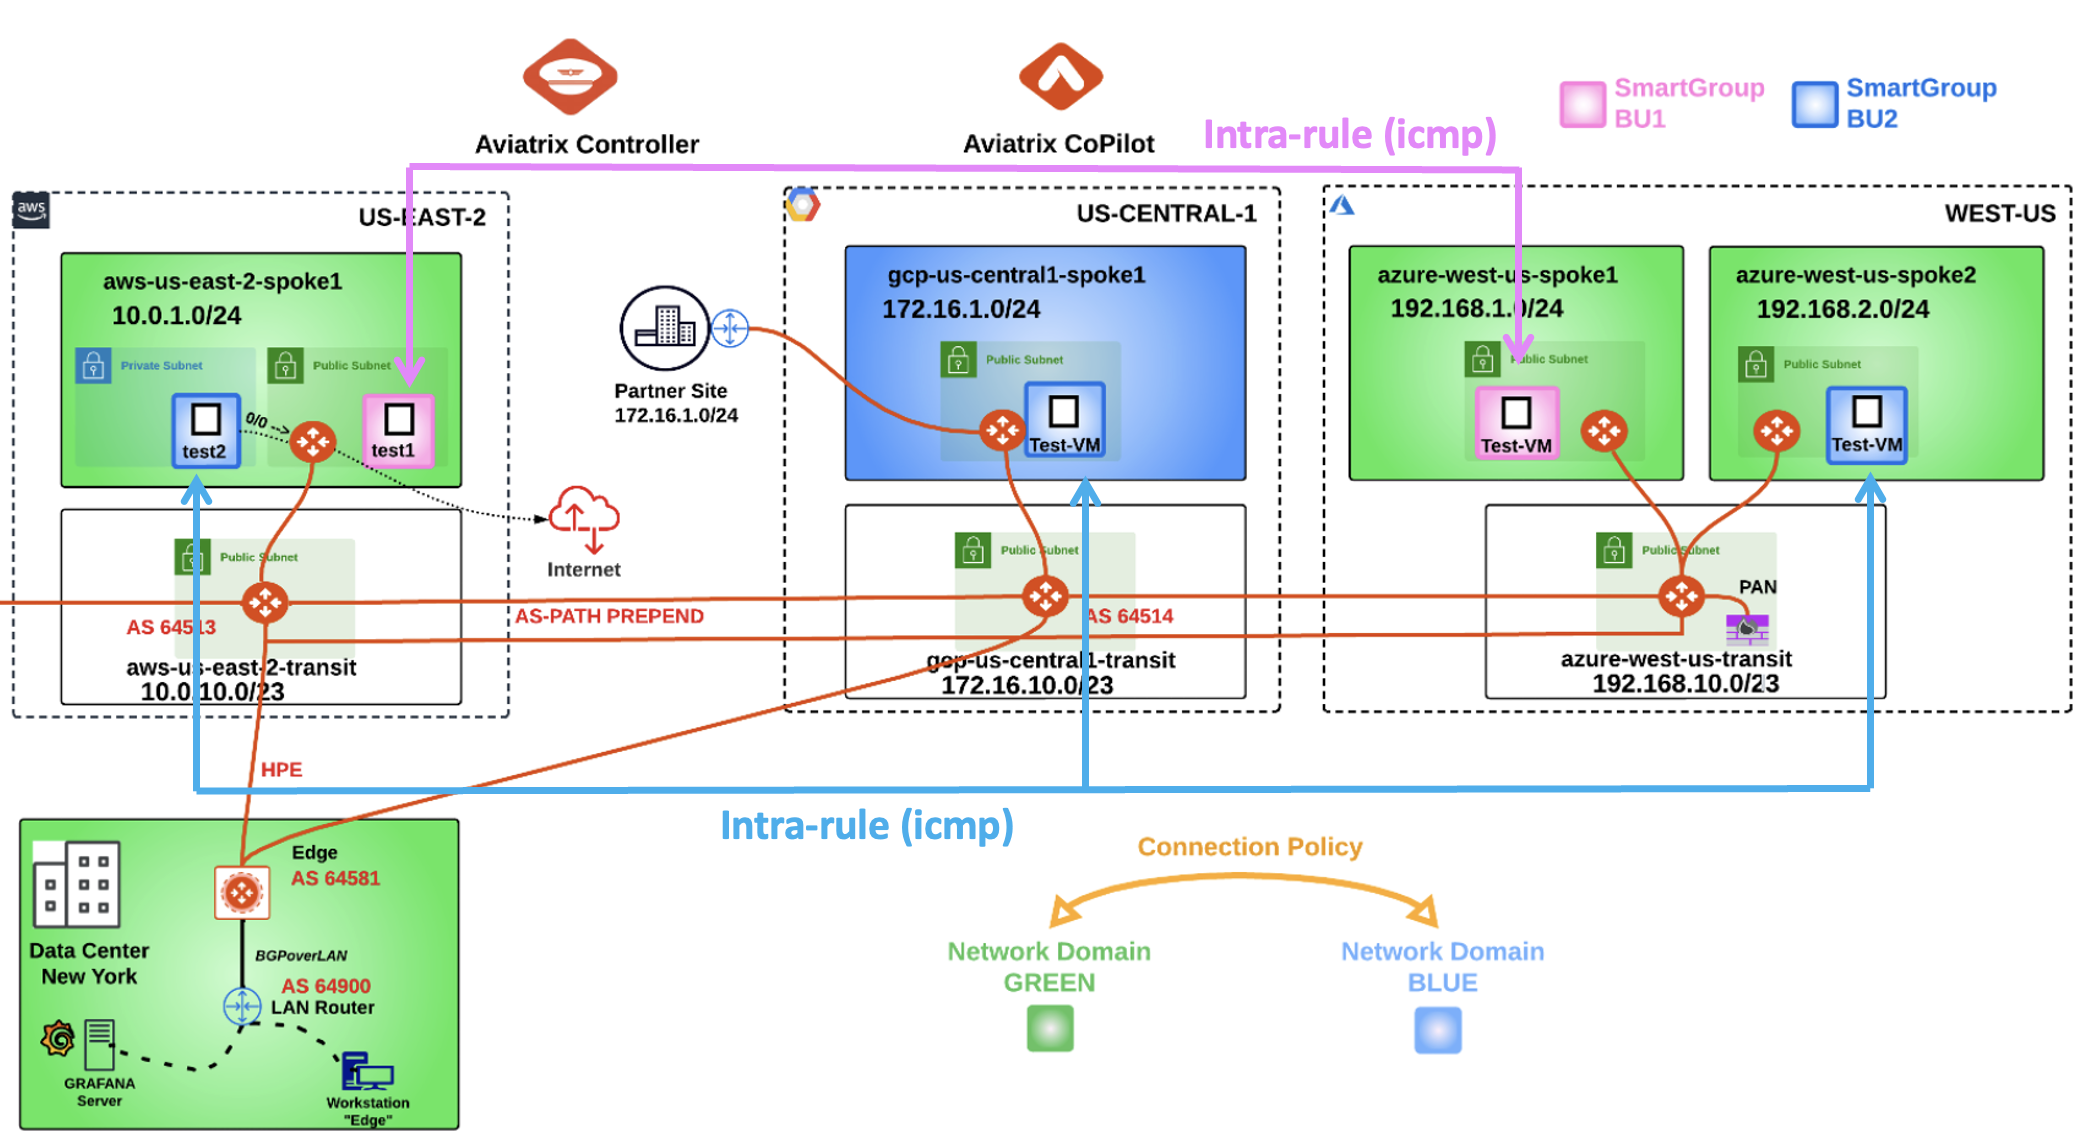
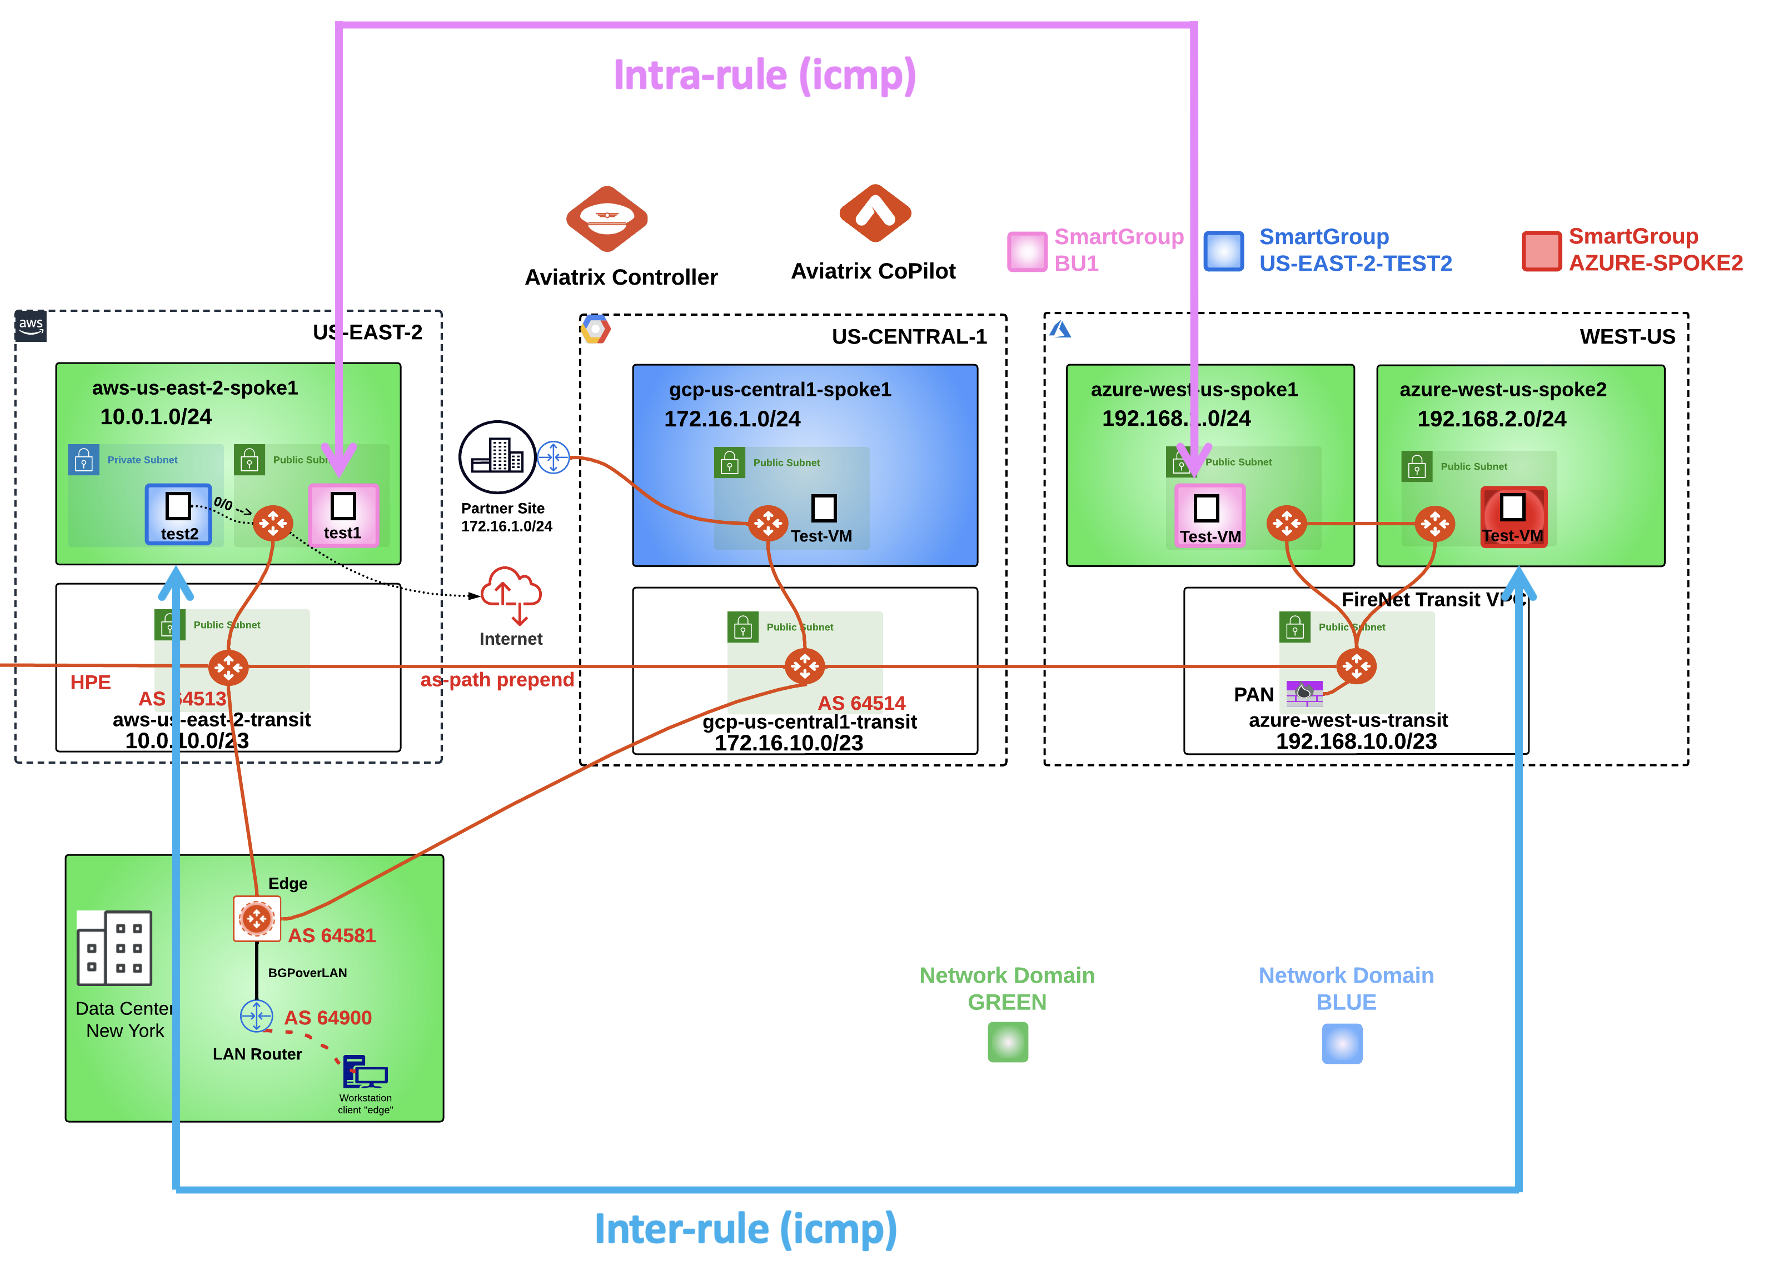
update for pro

diff --git a/ace_pro/docs/lab11.md b/ace_pro/docs/lab11.md
@@ -462,7 +462,7 @@ align: center
 New Topology
 ```
 
-### 5.1 Verify ICMP within bu1 and from bu1 towards bu2 Using the Gatus App
+### 5.1 Verify ICMP within bu1 Using the Gatus App
 
 Open the Gatus App on **_aws-us-east-2-spoke1-test1_** and verify the ICMP Traffic.
 
@@ -499,7 +499,7 @@ align: center
 SSH from your laptop - logical diagram
 ```
 
-### 5.3 Verify ICMP within bu1 and from bu1 towards bu2 Using the SSH Client <span style='color:#33ECFF'>(BONUS)</span></summary>
+### 5.3 Verify ICMP within bu1 Using the SSH Client <span style='color:#33ECFF'>(BONUS)</span></summary>
 
 Ping the following instances from **aws-us-east-2-spoke1-test1**:
 
@@ -549,9 +549,9 @@ align: center
 Outcomes
 ```
 
-Based on the above outcome, you will not see **10.0.1.10** (aws-us-east-2-spoke1-test2) because it belongs to **bu2**, which does not match the intra-icmp-bu1 rule.
+Based on the above outcome, you will not see **10.0.1.10** (aws-us-east-2-spoke1-test2) because it belongs to the **us-east-2-test2** Smart Group, which does not match the intra-icmp-bu1 rule.
 
-However, **aws-us-east-2-spoke1-test1** can ping **aws-us-east-2-spoke1-test2** due to intra-VPC communication, without needing to match any of the deployed DCF rules.
+However, **aws-us-east-2-spoke1-test1** can ping **aws-us-east-2-spoke1-test2** due to intra-VPC communication, <ins>without needing to match any of the deployed DCF rules</ins>.
 
 ```{figure} images/lab10-sgorch01.png
 ---
